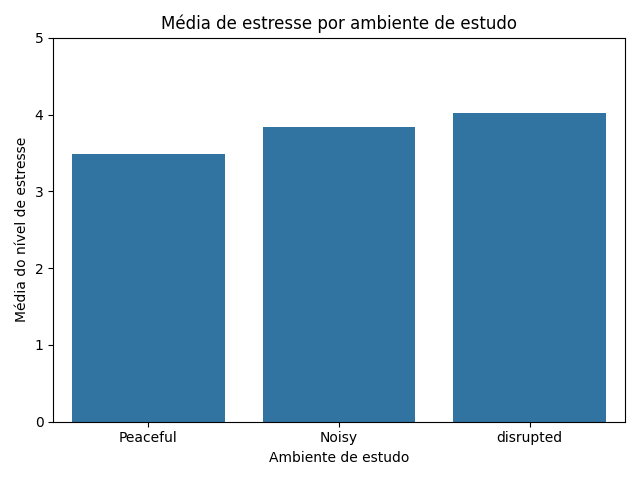
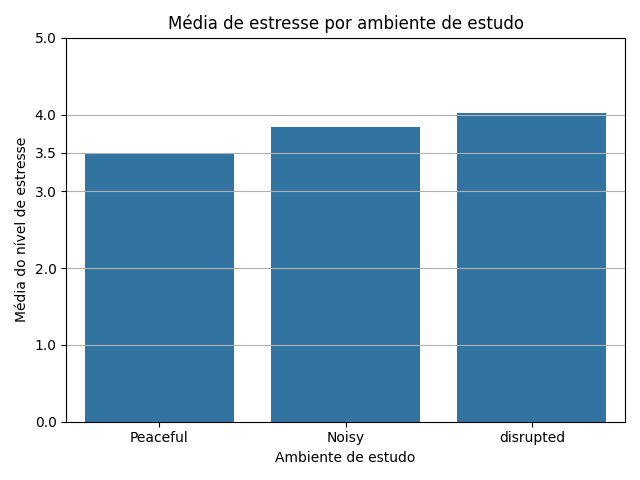
Fim do código
Proxima Etapa: Relatório, e separação em Jupyter Notebook

diff --git a/Semana_3/Atividade-Exploração_e_Análise_Inicial_de_Dados_Reais.py b/Semana_3/Atividade-Exploração_e_Análise_Inicial_de_Dados_Reais.py
@@ -334,5 +334,22 @@ plt.title("Média de estresse por ambiente de estudo")
 plt.xlabel("Ambiente de estudo")
 plt.ylabel("Média do nível de estresse")
 plt.ylim(0, 5)
-plt.tight_layout()
+plt.yticks([0, 1, 2, 3, 3.5, 4, 5])
+plt.grid(axis='y')
+plt.tight_layout() 
 plt.savefig(r'Semana_3\barplot_estresse_ambiente_final.png')
+plt.clf()
+
+# Segundo Gráfico, com boxplot, para demonstrar a amplitude dos dados, e a concentração, em cada um dos ambientes disponivéis
+
+sns.boxplot(x='study_environment', y='stress', data=df_final, order=['Peaceful', 'Noisy', 'disrupted'])
+plt.title('Distribuição do nivel de estresse por ambiente de estudo')
+plt.xlabel('Ambiente de estudo')
+plt.ylabel('Nível de estresse relatado')
+plt.grid(axis='y')
+plt.tight_layout() 
+plt.savefig(r'Semana_3\boxplot_estresse_por_ambiente.png')
+plt.clf()
+
+# Fim do código!
+#Todos os arquivos e outputs gerados estarão disponíveis no jupyter notebook em mesma pasta, além de serem comentados no relatorio.md
